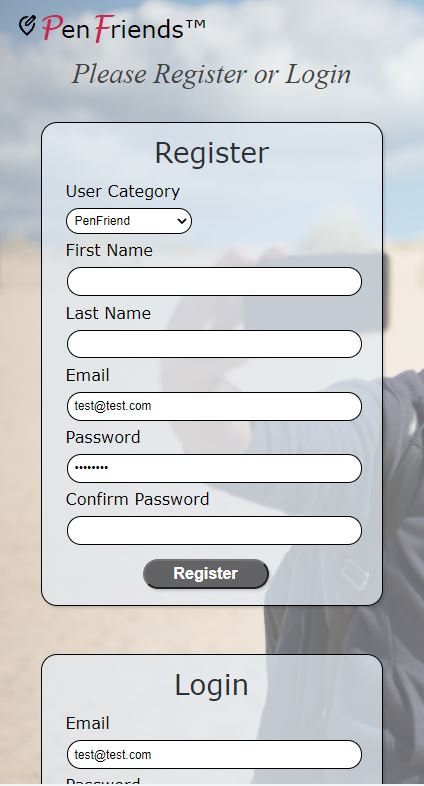
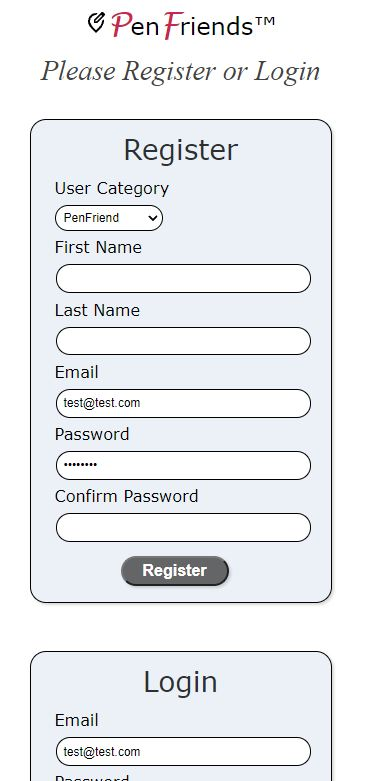
Updated README

diff --git a/login_registration_app/static/login_style.css b/login_registration_app/static/login_style.css
@@ -38,8 +38,7 @@ span{
 }
 
 #logo{
-    padding:1rem 2rem;
-    align-self:start;
+    padding:1rem 0;
     color:black;
 }
 
